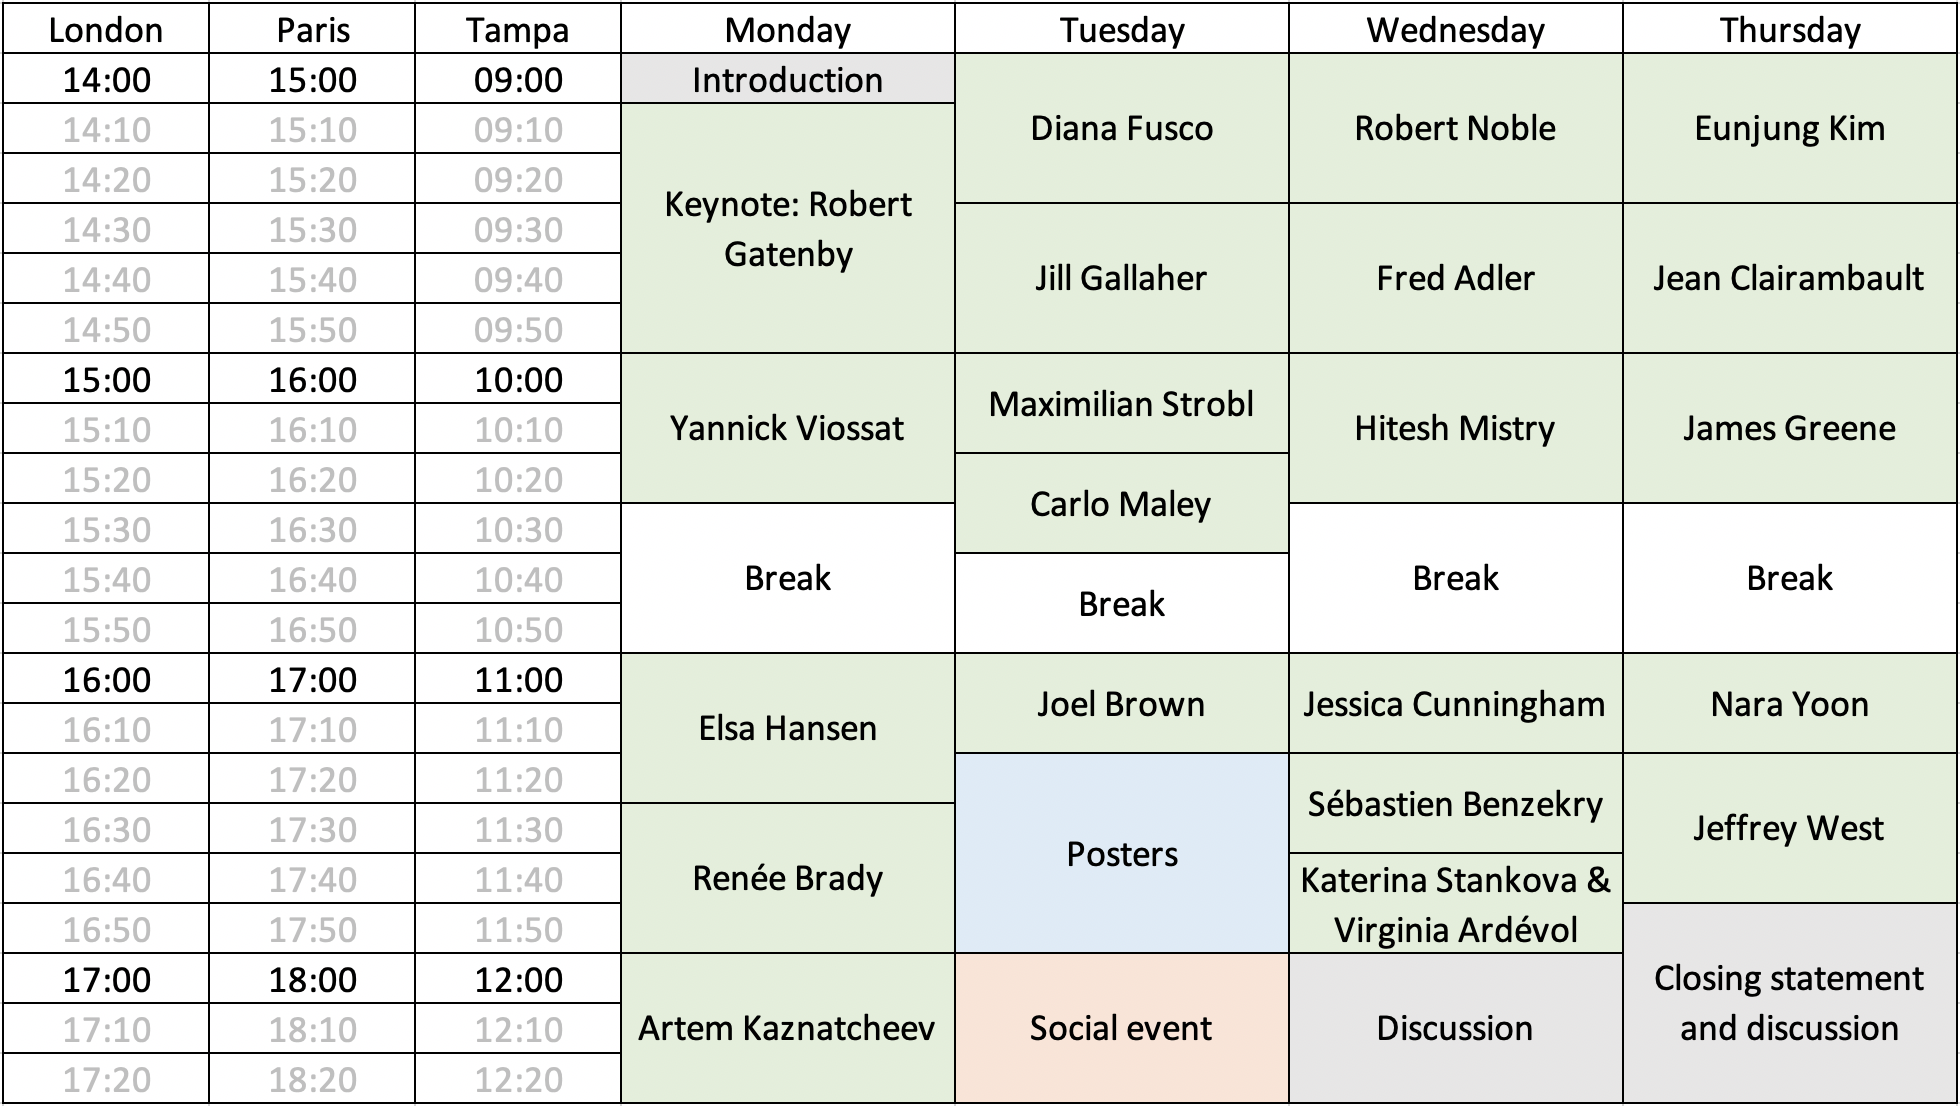
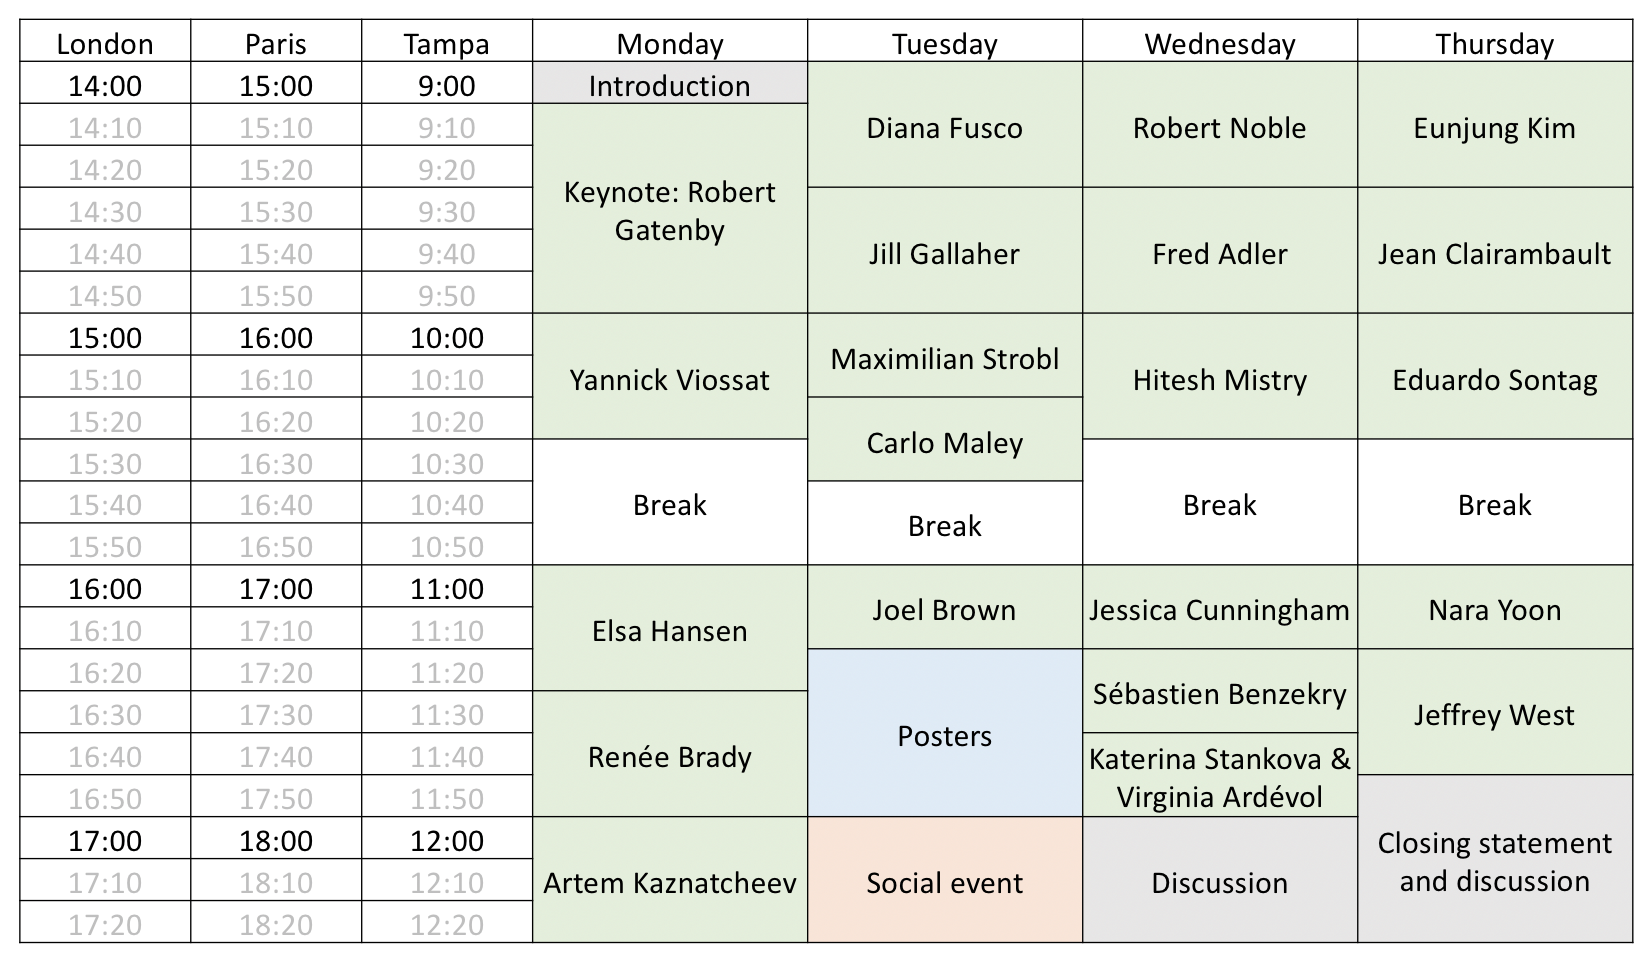
added Eduardo in place of James

diff --git a/index.html b/index.html
@@ -122,7 +122,7 @@
                     <h2 class="mb-5">Programme at a glance</h2>
                     <div class="d-flex flex-column flex-md-row justify-content-between mb-5">
 	                    	
-                        <img src="./assets/img/Programme4thDec.png" alt="" /></img>
+                        <img src="./assets/img/Programme7thDec.png" alt="" /></img>
                         
                     </div>
             </section>
@@ -482,7 +482,7 @@
 											      </td>
 											    </tr>
 											    <tr>
-											      <td><strong>James Greene</strong> <em>(Clarkson University)</em></br>
+											      <td><strong>Eduardo Sontag </strong> <em>(Northeastern University)</em></br>
 												      <small>15:00 (London); 16:00 (Paris); 10:00 (Tampa)</small></br>
 												      <span class="abs">Drug resistance in cancer: the role of induction</span></br>
 												      <p class="text-justify mr-2 ml-2">
